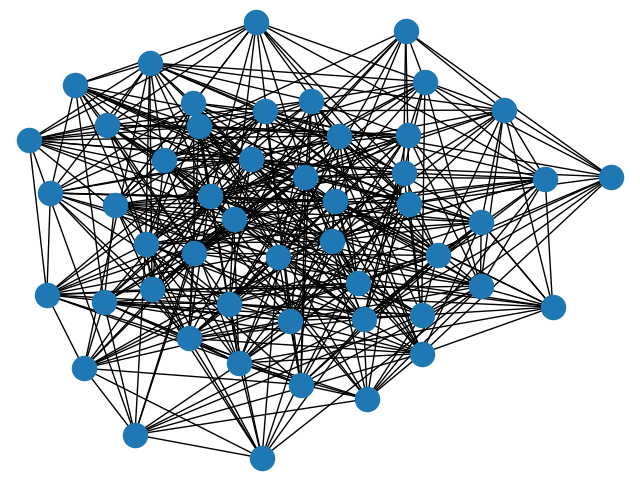
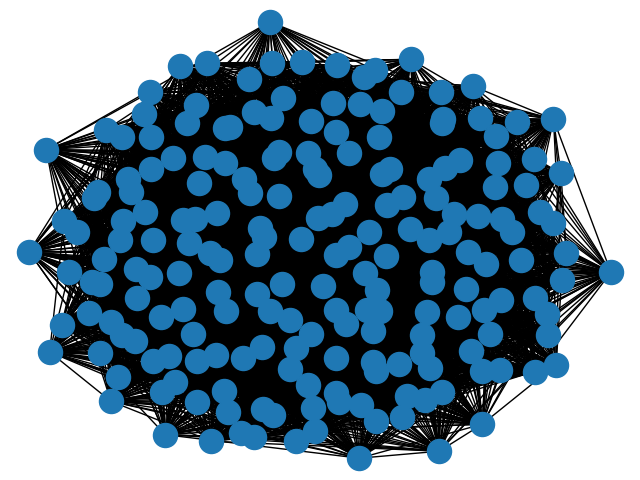
Update README.md

diff --git a/test_v1_v2.py b/test_v1_v2.py
@@ -5,9 +5,9 @@ import v1
 import v2
 import trace_cubed_matrix as trace
 
-G = nx.erdos_renyi_graph(50, 0.35, seed=random.seed(), directed=False)
+G = nx.erdos_renyi_graph(100, 0.35, seed=random.seed(), directed=False)
 adjacency = nx.to_numpy_array(G)
-print("The adjacency for this test case will be: ")
+#print("The adjacency for this test case will be: ")
 #print(adjacency)
 
 nx.draw(G)
@@ -30,7 +30,7 @@ for i in range(len(G)):
 print("Total numbers of triangles: " + str(count))
 
 print("\n<----------GeeksForGeeks trace method---------->")
-trace.V = 50 # number of nodes
+trace.V = 100 # number of nodes
 print("Total number of Triangle in Graph :", trace.triangleInGraph(adjacency))
 
 print("\n<----------NetworkX built-in function---------->")

diff --git a/README.md b/README.md
@@ -1,3 +1,63 @@
-# Undirected Graph of N=50 nodes
+# Description
+
+## Vertexwise triangle counting
+We will implement, step-by-step, a shared memory implementation to count the number of triangles adjacent with each node in an undirected, unweighted graph G(V,E), where V is the set of n nodes and E is the set of m edges among the nodes.
+
+## Triangle detection and counting
+In graph theory, the triangle graph is the complete graph K3, consisting of three vertices and three edges. Triangle counting has gained increased popularity in the fields of network and graph analysis. The application of triangle detection, location, and counting are multi-fold: detection of minimal cycles, graph-theoretic clustering techniques, recognition of median, claw-free, and line graphs, and test of automorphism.
+
+## Preliminaries
+(V1). Assume that a graph is represented by its adjacency matrix A[i][j] where the rows and columns correspond to the vertices and A[i][j] == 1 when there exists an edge between nodes i and j and 0 otherwise. In our studies we deal with undirected graphs so A[i][j] == A[j][i].
+
+Implement and run your first attempt to count triangles incident with each node as a triple loop that checks whether A[i][j] == A[j][k] == A[k][i] == 1 and if so, increments the counts on all three nodes c3[i]++; c3[j]++; c3[k]++;
+
+To test your code, generate random graphs, using any way you can come up. It is a bit tricky to generate random graphs with given properties but this is not the purpose of this project, any random graphs will do. See Erdős-Rényi random graphs for instance to get a better idea.
+
+Implement and test your code. Persuade yourselves it is correct, otherwise we cannot go any further!
+
+(V2). There is an obvious limitation in this first approach. We will find the same triangle 6 different times (all permutations of three vertices), so we can make our code 6 times faster by enumerating and checking only i\<j\<k triplets. Make this correction.
+
+Measure the time it takes to run the two versions above. Use `clock_gettime` as described [here](https://blog.habets.se/2010/09/gettimeofday-should-never-be-used-to-measure-time.html).
+
+(V3). So far so good, but now the data structure is really limiting our ability to process interesting graphs with millions of nodes and edges (think Facebook mutual friends, for instance).
+
+To remedy this we will use a sparse matrix representation. For this assignment, we will use the most common sparse matrix storage scheme, the *Compressed Sparse Columns* (CSC) format. When the matrix is symmetric (as in our case), it is equivalent to the Compressed Sparse Row (CSR) format. Both MATLAB and Julia use the CSC format to store sparse matrices.
+
+Now we can [use graph datasets from the web](https://sparse.tamu.edu/). Make sure to download undirected, unweighted graphs. To load the sparse adjacency matrix use the Matrix Market (MM) format. Examples for parsing such files are found at https://math.nist.gov/MatrixMarket/mmio-c.html, e.g., `example_read.c` which relies on `mmio.h` and `mmio.c` for reading any MM matrix.
+
+Rewrite your code as V3 to use the CSC storage scheme and only follow edges. Adjust your input to be able to use large graphs from the web (n≈1,000,000
+and m<30,000,000).
+
+Parallelize your V3 code with OpenCilk and OpenMP, run it in parallel and compare sequential and parallel agreement in results and run times for different large datasets (we will propose which ones soon) and produce diagrams to study the scalability of your code.
+
+## Main part
+
+We are ready to jump a bit further using the mathematical properties of the adjacency matrix A. The i,j element of the matrix-matrix product A\*A is equal to the number of possible walks from node i to node j of length exactly 2, i.e. how many k exist that I can go from i to k and then from k to j. If there is also an edge A[i][j], then that is the number of triangles we are after!
+
+Formally, the number of triangles c3 incident with each node is: ![main equation](https://latex.codecogs.com/gif.latex?c_%7B3%7D%3D%28A%20%5Codot%28A%20A%29%29%20e%20/%202)
+where ⊙ denotes the Hadamard (or element-wise) product and e is a vector of length n where every element equals 1. We divide the result by 2 because we count both `ikj` and `ijk`
+
+### 3.1 Sequential implementation
+
+#### 3.1.1 Implement and verify the formula 
+Check the validity of the formula by implementing it in a high-level language, such as `MATLAB, Octave, Python, Julia` or whatever else you feel comfortable with.
+
+#### 3.1.2 Sparse matrix-vector product
+Using the CSC storage scheme, implement in `C/C++` the sparse matrix-vector product C=Av, where v is a dense vector. Validate your implementation by comparing your results against multiple matrices A and vectors v.
+
+#### 3.1.3 Masked sparse matrix-matrix product
+(V4) Implement a routine to compute the masked sparse matrix-matrix product C=A⊙(AA), where A is a symmetric, sparse matrix. Note: Due to the Hadamard product with A the result will have the same sparsity as the input matrix A. You do not need to compute the values C(i,j), where A(i,j)=0. The number of triangles c3 at each vertex node is ![first equation](https://latex.codecogs.com/gif.latex?C_3%20%3D%20C_e/2).
+
+ **Caution**: A×A will become dense, if there is even one node connected to most of the others. Make sure you use the masking to calculate only the elements of A×A at the nonzero positions of A.
+
+ ### 3.2 Parallel implementation
+ Parallelize your masked sparse matrix-matrix product code (V4) with OpenCilk, OpenMP, and Pthreads run it in parallel and compare sequential and parallel agreement in results and run times for different large datasets (we will propose which ones soon) and produce diagrams to study the scalability of your code. Compare the triangle counting using the masked sparse matrix-matrix product and the V3 code, implemented in the preliminary.
+
+## Report
+- A 3-page report in PDF format (any pages after the 3rd one will not be taken into account). Report execution time of your implementations, in thoughtful and dense diagrams, with respect to the number of data points n and the number of edges m. Explain your implementation choices and code behavior.
+- Upload the source code of V3 and V4 (sequential and parallel) on GitHub, BitBucket, Dropbox, Google Drive, etc. and add a link in your report.
+
+# Undirected Graph
 
 ![undirected graph](docs/undirected_graph.png)
+
